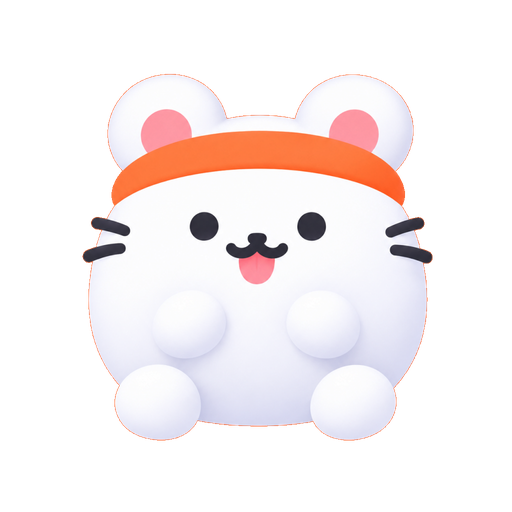
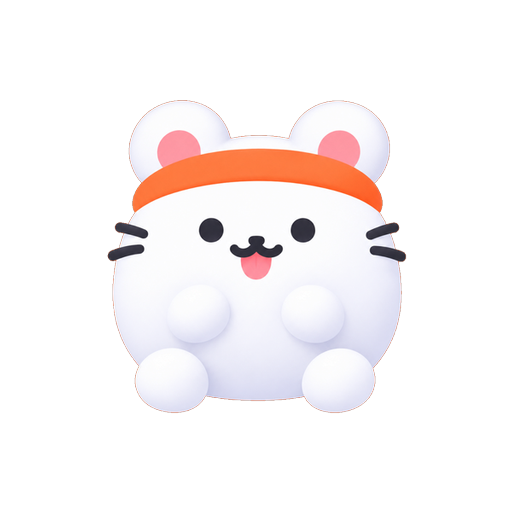
fix : 안드로이드 foreground png 파일 변경

diff --git a/src/components/animated-icon.tsx b/src/components/animated-icon.tsx
@@ -7,7 +7,11 @@ import { scheduleOnRN } from "react-native-worklets";
 
 import { BrandMark } from "@/components/brand-mark";
 
-const ICON = require("@/assets/images/android-icon-foreground.png");
+// Not android-icon-foreground.png: that one is padded for Android's adaptive
+// icon safe zone (see app.config.ts), which would make the mascot look
+// small here — this bridge isn't circularly masked, so it can use the
+// full-bleed artwork.
+const ICON = require("@/assets/images/splash-icon.png");
 // Matches app.config.ts's expo-splash-screen `imageWidth: 76` so the icon
 // doesn't visibly change size handing off from the native splash.
 const ICON_SIZE = 152;
